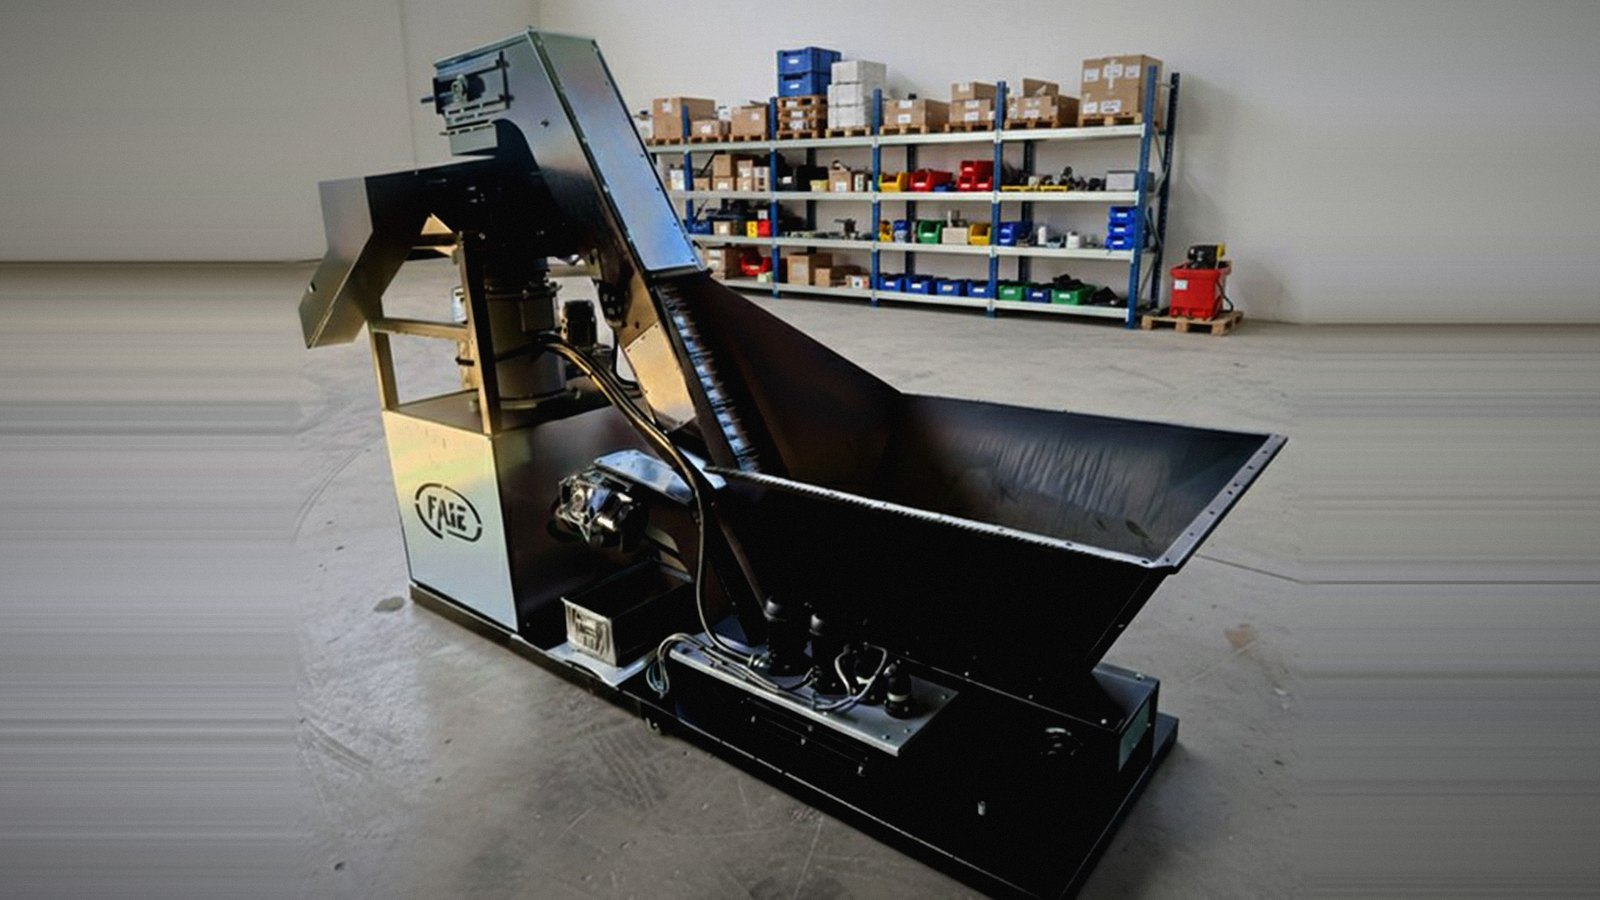
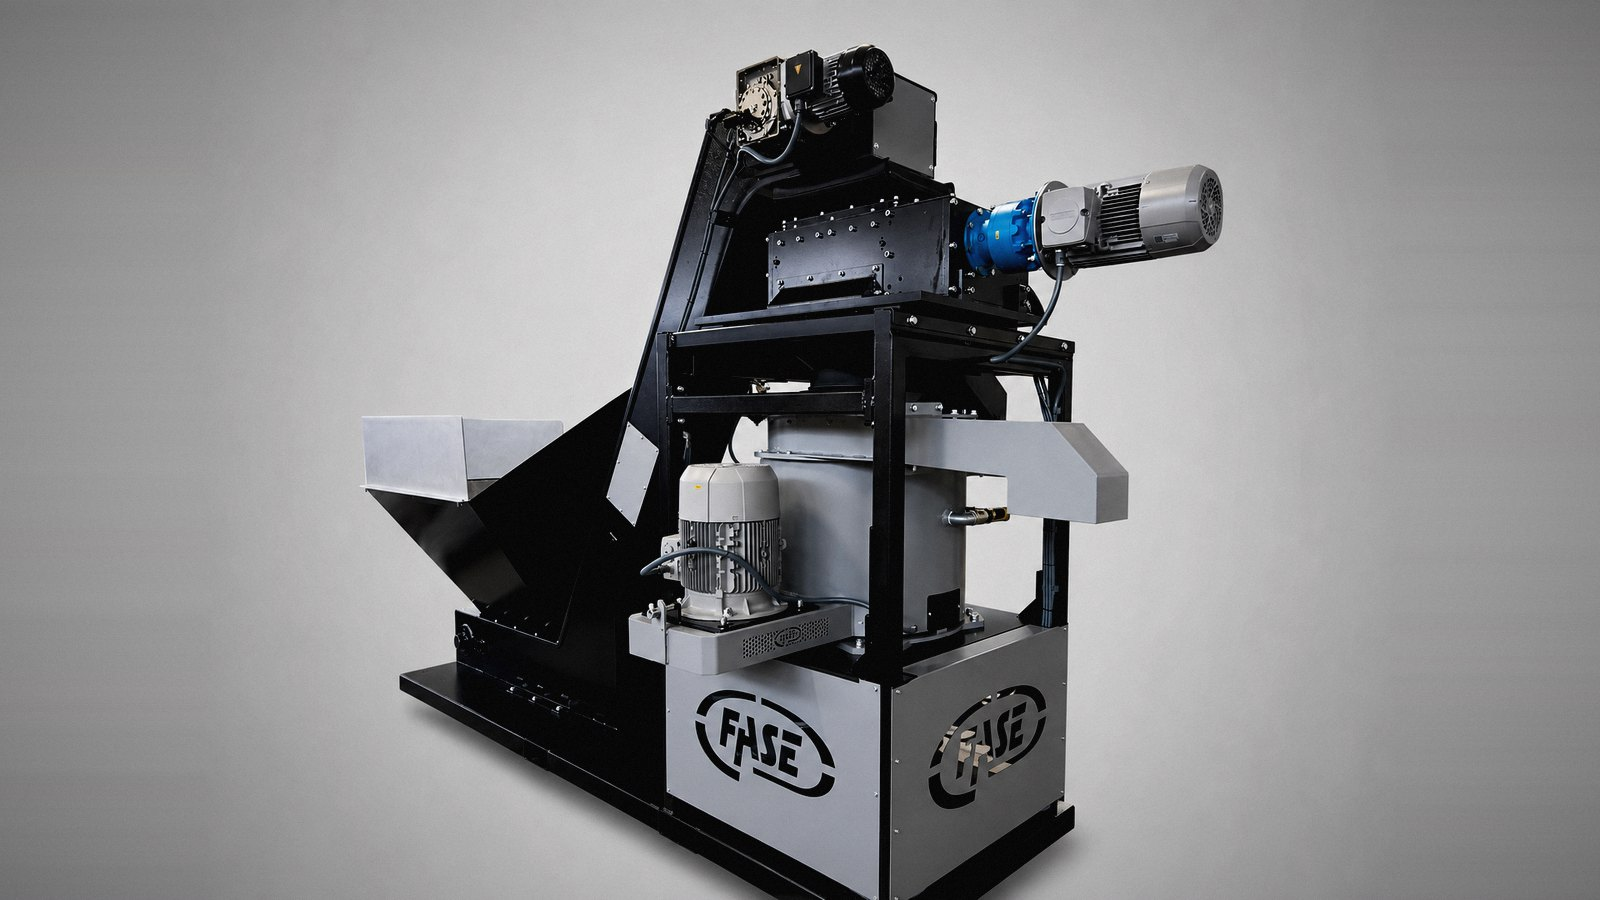
Caroselli su impianti e KOMBI
La pagina impianti aveva ancora la fascia a due fotografie prese dal repo
dei contenuti: passa a cinque installazioni vere, elaborate come quelle
dei trituratori. Sono gruppi di trattamento completi, dal piu' compatto
alla linea con trituratore TR7-30 e disoleatrice FD500, piu' la KOMBI che
ora fa parte della famiglia.

La scheda KOMBI prende tutte e dodici le fotografie delle sue cartelle:
otto scatti in posa e quattro di reparto, i primi in testa.

Le cartelle KOMBI erano state sostituite come quelle dei trituratori, e i
file da cui avevo ricavato le immagini di ieri non ci sono piu': tutto
rifatto dai nuovi. Ne guadagna anche la miniatura della scheda, che ora
viene da uno scatto su fondo grigio e sta accanto alle due sorelle senza
stonare.

diff --git a/assets/i18n.js b/assets/i18n.js
@@ -106,6 +106,22 @@ var EN = {
 
 /* --- schede prodotto: nomi e sottotitoli --------------------------- */
 /* --- KOMBI ------------------------------------------------------------ */
+"impianto Fase KOMBI completo: tramoggia di carico, elevatore a tapparelle, centrifuga e quadro elettrico":"complete Fase KOMBI system: loading hopper, slat elevator, centrifuge and control panel",
+"impianto Fase KOMBI visto di tre quarti, con l\u2019elevatore che sale verso la centrifuga":"Fase KOMBI system seen at three-quarters, with the elevator rising to the centrifuge",
+"impianto Fase KOMBI con la tramoggia di accumulo in primo piano e il quadro di comando a fianco":"Fase KOMBI system with the accumulation hopper in the foreground and the control panel alongside",
+"impianto Fase KOMBI sul telaio pallettizzato, con il motoriduttore dell\u2019elevatore in vista":"Fase KOMBI system on its palletised frame, with the elevator gearmotor in view",
+"testata dell\u2019elevatore a tapparelle di un impianto Fase KOMBI, con lo scarico sulla centrifuga":"head of the slat elevator on a Fase KOMBI system, discharging onto the centrifuge",
+"gruppo di scarico di un impianto Fase KOMBI, con il fusto della centrifuga in vista":"discharge assembly of a Fase KOMBI system, with the centrifuge drum in view",
+"base pallettizzata di un impianto Fase KOMBI, con le pompe di rilancio e la vasca di recupero":"palletised base of a Fase KOMBI system, with the transfer pumps and the recovery tank",
+"coclea della vasca dragante autopulente di un impianto Fase KOMBI":"auger of the self-cleaning dredging tank on a Fase KOMBI system",
+"impianto Fase KOMBI-40 T installato in officina, con il trituratore TR1 sopra la centrifuga":"Fase KOMBI-40 T system installed in a machine shop, with the TR1 shredder above the centrifuge",
+"impianto Fase KOMBI-40 T in reparto, visto dal lato del quadro elettrico":"Fase KOMBI-40 T system on the shop floor, seen from the control panel side",
+"impianto Fase KOMBI-40 T di fronte, con i due carter marchiati":"Fase KOMBI-40 T system from the front, with the two branded guards",
+"coclea della vasca dragante di un impianto Fase KOMBI, vista dall\u2019alto":"auger of the dredging tank on a Fase KOMBI system, seen from above",
+"gruppo Fase di trattamento truciolo con trituratore TR1 e disoleatrice FD250, installato in officina":"Fase chip treatment group with TR1 shredder and FD250 oil-removal centrifuge, installed in a machine shop",
+"gruppo compatto Fase di trattamento truciolo: nastro di carico, centrifuga e cassone di raccolta":"compact Fase chip treatment group: loading conveyor, centrifuge and collection bin",
+"linea Fase di trattamento truciolo con quadro di comando e trasportatore verso la centrifuga":"Fase chip treatment line with control panel and conveyor feeding the centrifuge",
+"impianto Fase con trituratore TR7-30 idro e disoleatrice FD500, dietro la recinzione di protezione":"Fase system with TR7-30 idro shredder and FD500 oil-removal centrifuge, behind the safety fence",
 "Impianto compatto di disoleatura":"Compact oil-removal system",
 "Serie KOMBI":"KOMBI series",
 "Fino a 400 kg/h su base pallettizzata":"Up to 400 kg/h on a palletised base",
@@ -135,11 +151,6 @@ var EN = {
 "Vasca dragante":"Dredging tank",
 "Trituratore TR1":"TR1 shredder",
 "impianto Fase KOMBI su base pallettizzata, con elevatore a tapparelle, centrifuga e quadro elettrico":"Fase KOMBI system on a palletised base, with slat elevator, centrifuge and control panel",
-"impianto Fase KOMBI-40 in officina, fra le macchine utensili: tramoggia di carico, elevatore a tapparelle e quadro elettrico":"Fase KOMBI-40 system in a machine shop, among the machine tools: loading hopper, slat elevator and control panel",
-"impianto Fase KOMBI-40 T, con il trituratore TR1 montato sopra la centrifuga":"Fase KOMBI-40 T system, with the TR1 shredder mounted above the centrifuge",
-"impianto Fase KOMBI-40 D, con la vasca dragante autopulente":"Fase KOMBI-40 D system, with the self-cleaning dredging tank",
-"impianto Fase KOMBI-15 D, la taglia minore, con vasca dragante":"Fase KOMBI-15 D system, the smaller size, with dredging tank",
-"coclea della vasca dragante di un impianto Fase KOMBI, vista dall\u2019alto":"auger of the dredging tank on a Fase KOMBI system, seen from above",
 "Brevetto n. 102017000109589":"Patent no. 102017000109589",
 "Trituratore ad asse orizzontale":"Horizontal-shaft shredder",
 "Serie TR1":"TR1 series",

diff --git a/prodotti/kombi.html b/prodotti/kombi.html
@@ -6,7 +6,7 @@
 <meta name="format-detection" content="telephone=no,address=no,email=no,date=no">
 <title>Impianto compatto di disoleatura serie KOMBI | Fase Mechanical Engineering</title>
 <meta name="description" content="Impianto automatico di disoleatura del truciolo corto, su base pallettizzata. Fino a 400 kg/h, trituratore e vasca dragante a richiesta.">
-<link rel="stylesheet" href="../assets/site.css?v=20260826l">
+<link rel="stylesheet" href="../assets/site.css?v=20260826m">
 </head>
 <body>
 <nav class="menu">
@@ -61,11 +61,18 @@
        perche' resti visibile se lo script non parte. Per cambiare le
        immagini basta agire su queste righe. -->
   <div class="reveal carosello" data-carosello="2000">
-    <img class="attiva" alt="impianto Fase KOMBI-40 in officina, fra le macchine utensili: tramoggia di carico, elevatore a tapparelle e quadro elettrico" src="../assets/img/kombi/kombi-01.jpg">
-    <img loading="lazy" alt="impianto Fase KOMBI-40 T, con il trituratore TR1 montato sopra la centrifuga" src="../assets/img/kombi/kombi-02.jpg">
-    <img loading="lazy" alt="impianto Fase KOMBI-40 D, con la vasca dragante autopulente" src="../assets/img/kombi/kombi-03.jpg">
-    <img loading="lazy" alt="impianto Fase KOMBI-15 D, la taglia minore, con vasca dragante" src="../assets/img/kombi/kombi-04.jpg">
-    <img loading="lazy" alt="coclea della vasca dragante di un impianto Fase KOMBI, vista dall’alto" src="../assets/img/kombi/kombi-05.jpg">
+    <img class="attiva" alt="impianto Fase KOMBI completo: tramoggia di carico, elevatore a tapparelle, centrifuga e quadro elettrico" src="../assets/img/kombi/kombi-01.jpg">
+    <img loading="lazy" alt="impianto Fase KOMBI visto di tre quarti, con l’elevatore che sale verso la centrifuga" src="../assets/img/kombi/kombi-02.jpg">
+    <img loading="lazy" alt="impianto Fase KOMBI con la tramoggia di accumulo in primo piano e il quadro di comando a fianco" src="../assets/img/kombi/kombi-03.jpg">
+    <img loading="lazy" alt="impianto Fase KOMBI sul telaio pallettizzato, con il motoriduttore dell’elevatore in vista" src="../assets/img/kombi/kombi-04.jpg">
+    <img loading="lazy" alt="testata dell’elevatore a tapparelle di un impianto Fase KOMBI, con lo scarico sulla centrifuga" src="../assets/img/kombi/kombi-05.jpg">
+    <img loading="lazy" alt="gruppo di scarico di un impianto Fase KOMBI, con il fusto della centrifuga in vista" src="../assets/img/kombi/kombi-06.jpg">
+    <img loading="lazy" alt="base pallettizzata di un impianto Fase KOMBI, con le pompe di rilancio e la vasca di recupero" src="../assets/img/kombi/kombi-07.jpg">
+    <img loading="lazy" alt="coclea della vasca dragante autopulente di un impianto Fase KOMBI" src="../assets/img/kombi/kombi-08.jpg">
+    <img loading="lazy" alt="impianto Fase KOMBI-40 T installato in officina, con il trituratore TR1 sopra la centrifuga" src="../assets/img/kombi/kombi-09.jpg">
+    <img loading="lazy" alt="impianto Fase KOMBI-40 T in reparto, visto dal lato del quadro elettrico" src="../assets/img/kombi/kombi-10.jpg">
+    <img loading="lazy" alt="impianto Fase KOMBI-40 T di fronte, con i due carter marchiati" src="../assets/img/kombi/kombi-11.jpg">
+    <img loading="lazy" alt="coclea della vasca dragante di un impianto Fase KOMBI, vista dall’alto" src="../assets/img/kombi/kombi-12.jpg">
   </div>
 </section>
 <section class="detail-section">
@@ -164,7 +171,7 @@
     </div>
   </div>
 </footer>
-<script src="../assets/i18n.js?v=20260826l"></script>
-<script src="../assets/site.js?v=20260826l"></script>
+<script src="../assets/i18n.js?v=20260826m"></script>
+<script src="../assets/site.js?v=20260826m"></script>
 </body>
 </html>

diff --git a/impianti.html b/impianti.html
@@ -6,7 +6,7 @@
 <meta name="format-detection" content="telephone=no,address=no,email=no,date=no">
 <title>Impianti | Fase Mechanical Engineering</title>
 <meta name="description" content="Linee complete che collegano macchina utensile, trattamento dello sfrido e stoccaggio, dimensionate sul reparto.">
-<link rel="stylesheet" href="assets/site.css?v=20260826l">
+<link rel="stylesheet" href="assets/site.css?v=20260826m">
 </head>
 <body>
 <nav class="menu">
@@ -61,8 +61,11 @@
        perche' resti visibile se lo script non parte. Per cambiare le
        immagini basta agire su queste righe. -->
   <div class="reveal carosello" data-carosello="2000">
-    <img class="attiva" alt="impianto Fase a ciclo continuo: tramoggia di carico, elevatore verso la centrifuga, cassone di raccolta e cisterna del lubrorefrigerante" src="https://cdn.jsdelivr.net/gh/Acci4i0/fase@main/img/hero/03-linea-trattamento.jpg">
-    <img loading="lazy" alt="impianto Fase a paniere estraibile: portale con pinza sopra le stazioni di centrifugazione, dietro la recinzione di protezione" src="https://cdn.jsdelivr.net/gh/Acci4i0/fase@main/img/su-grigio/imp-paniere-serie.jpg">
+    <img class="attiva" alt="gruppo Fase di trattamento truciolo con trituratore TR1 e disoleatrice FD250, installato in officina" src="assets/img/impianti/imp-01.jpg">
+    <img loading="lazy" alt="gruppo compatto Fase di trattamento truciolo: nastro di carico, centrifuga e cassone di raccolta" src="assets/img/impianti/imp-02.jpg">
+    <img loading="lazy" alt="linea Fase di trattamento truciolo con quadro di comando e trasportatore verso la centrifuga" src="assets/img/impianti/imp-03.jpg">
+    <img loading="lazy" alt="impianto Fase con trituratore TR7-30 idro e disoleatrice FD500, dietro la recinzione di protezione" src="assets/img/impianti/imp-04.jpg">
+    <img loading="lazy" alt="impianto Fase KOMBI completo: tramoggia di carico, elevatore a tapparelle, centrifuga e quadro elettrico" src="assets/img/impianti/imp-05.jpg">
   </div>
 </section>
 <section class="expertises-overview">
@@ -140,7 +143,7 @@
     </div>
   </div>
 </footer>
-<script src="assets/i18n.js?v=20260826l"></script>
-<script src="assets/site.js?v=20260826l"></script>
+<script src="assets/i18n.js?v=20260826m"></script>
+<script src="assets/site.js?v=20260826m"></script>
 </body>
 </html>

diff --git a/news/test-gratuiti-di-triturazione.html b/news/test-gratuiti-di-triturazione.html
@@ -6,7 +6,7 @@
 <meta name="format-detection" content="telephone=no,address=no,email=no,date=no">
 <title>Test gratuiti di triturazione | Fase Mechanical Engineering</title>
 <meta name="description" content="I trituratori frantumano il truciolo e semplificano centrifugazione e stoccaggio. Mettiamo a disposizione una prova gratuita sullo sfrido del cliente, su appuntamento.">
-<link rel="stylesheet" href="../assets/site.css?v=20260826l">
+<link rel="stylesheet" href="../assets/site.css?v=20260826m">
 </head>
 <body>
 <nav class="menu">
@@ -140,7 +140,7 @@
     </div>
   </div>
 </footer>
-<script src="../assets/i18n.js?v=20260826l"></script>
-<script src="../assets/site.js?v=20260826l"></script>
+<script src="../assets/i18n.js?v=20260826m"></script>
+<script src="../assets/site.js?v=20260826m"></script>
 </body>
 </html>

diff --git a/index.html b/index.html
@@ -6,7 +6,7 @@
 <meta name="format-detection" content="telephone=no,address=no,email=no,date=no">
 <title>Fase Mechanical Engineering | Centrifughe, impianti e trituratori per lo sfrido metallico</title>
 <meta name="description" content="Fase progetta e costruisce centrifughe, impianti di trattamento e trituratori per lo sfrido metallico. Umidità residua sotto il 2%.">
-<link rel="stylesheet" href="assets/site.css?v=20260826l">
+<link rel="stylesheet" href="assets/site.css?v=20260826m">
 </head>
 <body>
 <nav class="menu">
@@ -332,7 +332,7 @@
     </div>
   </div>
 </footer>
-<script src="assets/i18n.js?v=20260826l"></script>
-<script src="assets/site.js?v=20260826l"></script>
+<script src="assets/i18n.js?v=20260826m"></script>
+<script src="assets/site.js?v=20260826m"></script>
 </body>
 </html>

diff --git a/applicazioni.html b/applicazioni.html
@@ -6,7 +6,7 @@
 <meta name="format-detection" content="telephone=no,address=no,email=no,date=no">
 <title>Applicazioni | Fase Mechanical Engineering</title>
 <meta name="description" content="Il truciolo esce dalla macchina utensile carico di lubrorefrigerante, e quanto ne trattiene dipende dalla forma. L’impianto si sceglie dal materiale, non dal listino.">
-<link rel="stylesheet" href="assets/site.css?v=20260826l">
+<link rel="stylesheet" href="assets/site.css?v=20260826m">
 </head>
 <body>
 <nav class="menu">
@@ -134,7 +134,7 @@
     </div>
   </div>
 </footer>
-<script src="assets/i18n.js?v=20260826l"></script>
-<script src="assets/site.js?v=20260826l"></script>
+<script src="assets/i18n.js?v=20260826m"></script>
+<script src="assets/site.js?v=20260826m"></script>
 </body>
 </html>

diff --git a/settori.html b/settori.html
@@ -6,7 +6,7 @@
 <meta name="format-detection" content="telephone=no,address=no,email=no,date=no">
 <title>Settori | Fase Mechanical Engineering</title>
 <meta name="description" content="Cambia il pezzo, cambia il fluido, cambia lo spazio. Non cambia dove interveniamo: a valle della lavorazione, prima che lo sfrido diventi un costo.">
-<link rel="stylesheet" href="assets/site.css?v=20260826l">
+<link rel="stylesheet" href="assets/site.css?v=20260826m">
 </head>
 <body>
 <nav class="menu">
@@ -120,7 +120,7 @@
     </div>
   </div>
 </footer>
-<script src="assets/i18n.js?v=20260826l"></script>
-<script src="assets/site.js?v=20260826l"></script>
+<script src="assets/i18n.js?v=20260826m"></script>
+<script src="assets/site.js?v=20260826m"></script>
 </body>
 </html>

diff --git a/news/fornitore-offresi-2025.html b/news/fornitore-offresi-2025.html
@@ -6,7 +6,7 @@
 <meta name="format-detection" content="telephone=no,address=no,email=no,date=no">
 <title>Fornitore Offresi 2025 | Fase Mechanical Engineering</title>
 <meta name="description" content="Salone internazionale della subfornitura meccanica, a Erba dal 13 al 15 febbraio. Padiglione B, stand 281.">
-<link rel="stylesheet" href="../assets/site.css?v=20260826l">
+<link rel="stylesheet" href="../assets/site.css?v=20260826m">
 </head>
 <body>
 <nav class="menu">
@@ -140,7 +140,7 @@
     </div>
   </div>
 </footer>
-<script src="../assets/i18n.js?v=20260826l"></script>
-<script src="../assets/site.js?v=20260826l"></script>
+<script src="../assets/i18n.js?v=20260826m"></script>
+<script src="../assets/site.js?v=20260826m"></script>
 </body>
 </html>

diff --git a/news/mecspe-2026.html b/news/mecspe-2026.html
@@ -6,7 +6,7 @@
 <meta name="format-detection" content="telephone=no,address=no,email=no,date=no">
 <title>MECSPE 2026 | Fase Mechanical Engineering</title>
 <meta name="description" content="Saremo a MECSPE, la fiera dedicata alle innovazioni per l’industria manifatturiera. Padiglione 14, stand F32.">
-<link rel="stylesheet" href="../assets/site.css?v=20260826l">
+<link rel="stylesheet" href="../assets/site.css?v=20260826m">
 </head>
 <body>
 <nav class="menu">
@@ -140,7 +140,7 @@
     </div>
   </div>
 </footer>
-<script src="../assets/i18n.js?v=20260826l"></script>
-<script src="../assets/site.js?v=20260826l"></script>
+<script src="../assets/i18n.js?v=20260826m"></script>
+<script src="../assets/site.js?v=20260826m"></script>
 </body>
 </html>

diff --git a/news/mecspe-2021.html b/news/mecspe-2021.html
@@ -6,7 +6,7 @@
 <meta name="format-detection" content="telephone=no,address=no,email=no,date=no">
 <title>MECSPE 2021 | Fase Mechanical Engineering</title>
 <meta name="description" content="Presenti con i sistemi di centrifugazione e triturazione del truciolo metallico. Padiglione 22, stand C86.">
-<link rel="stylesheet" href="../assets/site.css?v=20260826l">
+<link rel="stylesheet" href="../assets/site.css?v=20260826m">
 </head>
 <body>
 <nav class="menu">
@@ -140,7 +140,7 @@
     </div>
   </div>
 </footer>
-<script src="../assets/i18n.js?v=20260826l"></script>
-<script src="../assets/site.js?v=20260826l"></script>
+<script src="../assets/i18n.js?v=20260826m"></script>
+<script src="../assets/site.js?v=20260826m"></script>
 </body>
 </html>

diff --git a/news/mecspe-2024.html b/news/mecspe-2024.html
@@ -6,7 +6,7 @@
 <meta name="format-detection" content="telephone=no,address=no,email=no,date=no">
 <title>MECSPE 2024 | Fase Mechanical Engineering</title>
 <meta name="description" content="In mostra i sistemi di centrifugazione e triturazione del truciolo metallico. Padiglione 19, stand A10.">
-<link rel="stylesheet" href="../assets/site.css?v=20260826l">
+<link rel="stylesheet" href="../assets/site.css?v=20260826m">
 </head>
 <body>
 <nav class="menu">
@@ -140,7 +140,7 @@
     </div>
   </div>
 </footer>
-<script src="../assets/i18n.js?v=20260826l"></script>
-<script src="../assets/site.js?v=20260826l"></script>
+<script src="../assets/i18n.js?v=20260826m"></script>
+<script src="../assets/site.js?v=20260826m"></script>
 </body>
 </html>

diff --git a/accessori.html b/accessori.html
@@ -6,7 +6,7 @@
 <meta name="format-detection" content="telephone=no,address=no,email=no,date=no">
 <title>Accessori | Fase Mechanical Engineering</title>
 <meta name="description" content="Nastri trasportatori, ribalta cassoni e opzioni di macchina: quello che collega le fasi e toglie le movimentazioni a mano.">
-<link rel="stylesheet" href="assets/site.css?v=20260826l">
+<link rel="stylesheet" href="assets/site.css?v=20260826m">
 </head>
 <body>
 <nav class="menu">
@@ -162,7 +162,7 @@
     </div>
   </div>
 </footer>
-<script src="assets/i18n.js?v=20260826l"></script>
-<script src="assets/site.js?v=20260826l"></script>
+<script src="assets/i18n.js?v=20260826m"></script>
+<script src="assets/site.js?v=20260826m"></script>
 </body>
 </html>
